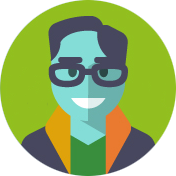
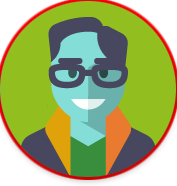
change_profil

diff --git a/index.html b/index.html
@@ -67,7 +67,7 @@
         <div class="row">
           <div class="col-xs-12 card-header shadow-z-1">
             <div id="profiler">
-              <img class="img-circle center-block shadow-z-1-hover" src="images/profil.png" alt="Smiley face">
+              <img class="img-circle center-block " src="images/profil.png" width="180px" alt="Smiley face">
             </div>            
           </div>
         </div>

diff --git a/css/style.css b/css/style.css
@@ -47,3 +47,11 @@ body {
 	height: 50px;
 }
 
+
+.img-circle {
+	
+	border: 13px solid red;
+
+}
+
+
